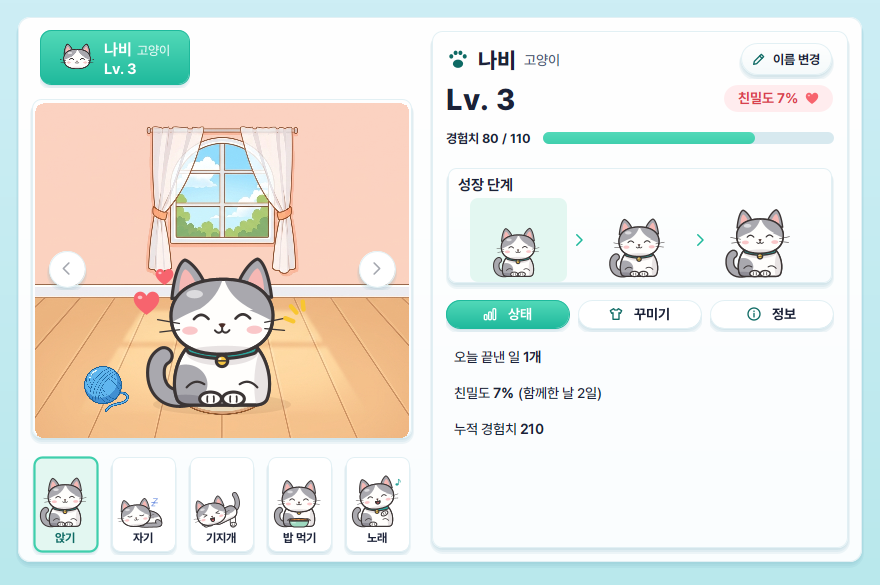
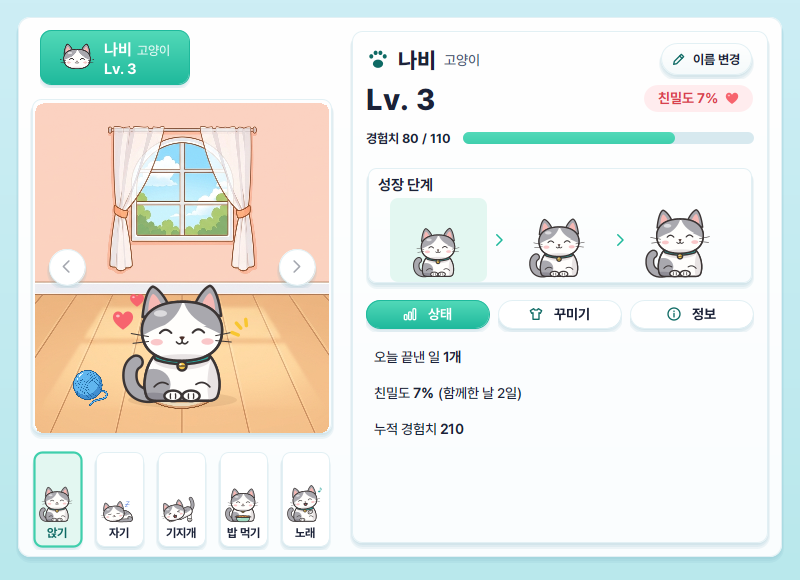
feat(pet): 캐릭터 창은 메인 창의 3분의 2, 홈 펫은 1단계도 크게 (#199)
D-93(크기): 캐릭터 창 안 크기는 메인 창 폭과 높이의 3분의 2이고 내용이 들어가는 최소 800x580보다 작아지지 않는다.
운영체제 창 틀만큼 더해 창 크기를 잡고, 최소 크기도 둔다.
D-93(홈 펫): 홈 펫 카드의 단계별 크기를 0.94배, 0.97배, 1배로 바꿔 1단계 앉은 그림도 카드 칸의 3분의 2를 넘는다(D-50의 크기는 나의 방과 캐릭터 창에 그대로).
05, 01, 디자인 시스템, README, 화면 캡처와 QA 그림 크기를 고치고 D-93 검사 둘을 더했다.

Changed region(s): [[0.0, 0.0621, 1.0, 0.9621], [0.0312, 0.031, 0.25, 0.1552]]

diff --git a/prototype/src/planningpet/pet/view/CharacterDialog.java b/prototype/src/planningpet/pet/view/CharacterDialog.java
@@ -3,6 +3,7 @@ package planningpet.pet.view;
 import planningpet.app.view.App;
 import planningpet.common.view.Theme;
 import java.awt.BorderLayout;
+import java.awt.Dimension;
 import java.awt.GradientPaint;
 import java.awt.Graphics;
 import java.awt.Graphics2D;
@@ -20,7 +21,15 @@ import javax.swing.SwingUtilities;
  * 캐릭터 화면(CharacterScreen) 하나를 담는다. 운영체제 창 틀의 닫기나 Esc로 닫고, 입혀 본 장신구가 있으면 먼저 묻는다(D-61).
  */
 public final class CharacterDialog {
+    /** 안의 내용(오른쪽 카드 420, 꾸미기 탭의 장신구 칸과 꾸미기 적용)이 들어가는 최소 크기(D-93). */
+    public static final Dimension MIN = new Dimension(800, 580);
+
     private CharacterDialog() {
+    }
+
+    /** D-93: 메인 창의 3분의 2쯤이고 MIN보다 작아지지 않는다. */
+    public static Dimension size(int ownerW, int ownerH) {
+        return new Dimension(Math.max(MIN.width, ownerW * 2 / 3), Math.max(MIN.height, ownerH * 2 / 3));
     }
 
     /** 창 안: 본문 판과 같은 그라데이션 바탕에 여백 16. 창 없이 그릴 때도 쓴다. */
@@ -47,7 +56,14 @@ public final class CharacterDialog {
         d.setContentPane(content(screen));
         int w = owner == null ? 1000 : owner.getWidth();
         int h = owner == null ? 680 : owner.getHeight();
-        d.setSize(Math.max(860, (int) (w * 0.88)), Math.max(560, (int) (h * 0.86)));
+        // 크기는 창 안(내용) 크기다. 운영체제 창 틀만큼 더한다.
+        d.pack();
+        java.awt.Insets in = d.getInsets();
+        Dimension inner = size(w, h);
+        int dw = in.left + in.right;
+        int dh = in.top + in.bottom;
+        d.setMinimumSize(new Dimension(MIN.width + dw, MIN.height + dh));
+        d.setSize(inner.width + dw, inner.height + dh);
         // D-61: 닫기와 Esc는 입혀 본 장신구가 있으면 먼저 묻는다.
         d.setDefaultCloseOperation(JDialog.DO_NOTHING_ON_CLOSE);
         Runnable close = () -> {

diff --git a/prototype/check/planningpet/check/ProtoCheck.java b/prototype/check/planningpet/check/ProtoCheck.java
@@ -432,6 +432,22 @@ public final class ProtoCheck {
             }
         }
         eq("D-84 자세 칸은 이름을 늘 적고 고른 칸을 보인다", "앉기 자기 기지개(고름) 밥 먹기 노래 ", poseCells.toString());
+        eq("D-93 캐릭터 창은 메인 창의 3분의 2쯤, 최소 800x580", "800x580 960x600", sizeText(planningpet.pet.view.CharacterDialog.size(1000, 680))
+                + " " + sizeText(planningpet.pet.view.CharacterDialog.size(1440, 900)));
+        StringBuilder fills = new StringBuilder();
+        for (String kind : new String[] {"CAT", "DOG"}) {
+            Store small = MockData.sample();
+            small.pets.clear();
+            small.pets.add(new PetState(kind, "작은 펫"));
+            small.activeKind = kind;
+            App sa = Main.create(small);
+            planningpet.home.view.PetCard card = find(sa.root, planningpet.home.view.MainScreen.class).pet;
+            for (java.awt.Dimension d : new java.awt.Dimension[] {card.getMinimumSize(), card.getPreferredSize(), new java.awt.Dimension(700, 400)}) {
+                card.setSize(d);
+                fills.append(card.petFill() > 2 / 3.0 ? "넘음 " : String.format("%.2f ", card.petFill()));
+            }
+        }
+        eq("D-93 홈 펫 카드의 1단계 펫은 카드 칸의 3분의 2 넘게", "넘음 넘음 넘음 넘음 넘음 넘음 ", fills.toString());
         App one = Main.create(MockData.sample());
         planningpet.pet.view.PetScreen oneRoom = find(one.root, planningpet.pet.view.PetScreen.class);
         oneRoom.character.opened(false);
@@ -457,6 +473,10 @@ public final class ProtoCheck {
             }
         }
         return null;
+    }
+
+    static String sizeText(java.awt.Dimension d) {
+        return d.width + "x" + d.height;
     }
 
     /** c 아래의 type 부품 모두(그린 순서). */

diff --git a/prototype/qa/planningpet/qa/Snap.java b/prototype/qa/planningpet/qa/Snap.java
@@ -36,10 +36,10 @@ public final class Snap {
             app.show(screen[0]);
             save(app.root, new Dimension(1000, 680), new File(dir, screen[1] + ".png"));
         }
-        // 캐릭터 창(D-58)은 메인 창 1000x680 위에 뜨는 크기(폭 0.88배, 높이 0.86배)의 창 안이다.
+        // 캐릭터 창(D-58)은 메인 창 1000x680 위에 뜨는 크기(D-93: 메인의 3분의 2쯤, 최소 800x580)의 창 안이다.
         PetScreen room = QaDrive.find(app.root, PetScreen.class);
         room.character.opened(false);
-        save(CharacterDialog.content(room.character), new Dimension(880, 585), new File(dir, "6-character.png"));
+        save(CharacterDialog.content(room.character), CharacterDialog.size(1000, 680), new File(dir, "6-character.png"));
         // 예시 그림과 같은 비율(16:9)로 넓게 그린 판. 강아지를 데려와 두 마리인 상태다(D-48).
         app.pet.adopt(true, "");
         app.pet.select("CAT");
@@ -57,7 +57,7 @@ public final class Snap {
             }
         }
         room.character.opened(false);
-        save(CharacterDialog.content(room.character), new Dimension(1267, 697), new File(dir, "6-character-wide.png"));
+        save(CharacterDialog.content(room.character), CharacterDialog.size(1440, 810), new File(dir, "6-character-wide.png"));
         LocalDate monday = TaskBook.mondayOf(app.store.today());
         save(TaskDialog.content(new TaskForm(null, app.store.today(), app.store.now), new JButton("취소"), new JButton("저장"), null), null, new File(dir, "3-form.png"));
         save(AutoPlaceDialog.content(app.store, monday, Planner.place(app.store, monday), new JButton("취소"),

diff --git a/prototype/src/planningpet/home/view/PetCard.java b/prototype/src/planningpet/home/view/PetCard.java
@@ -302,14 +302,25 @@ public final class PetCard extends JComponent {
         g.dispose();
     }
 
-    /** 펫: 카드 왼쪽에 발을 풀밭에 붙인다. 크기는 3단계 그림이 위쪽 여백을 빼고 꽉 차는 상자이고, 단계는 그 안의 크기로 보인다(D-50). */
+    /** 펫 상자 한 변: 3단계 그림이 위쪽 여백을 빼고 꽉 차는 크기. */
+    private int petSize(Rectangle f) {
+        return (int) Math.min(petWidth(f) * 1.7, (ground(f) - f.y - 14) / 0.97);
+    }
+
+    /** 펫 그림 높이를 카드 칸(카드 위에서 땅 선까지) 높이로 나눈 값. 1단계 앉기도 3분의 2를 넘는다(D-93). 검사용. */
+    public double petFill() {
+        Rectangle f = frame();
+        return Pet.cardDrawnHeight(store.pet(), petSize(f)) / (double) (ground(f) - f.y);
+    }
+
+    /** 펫: 카드 왼쪽에 발을 풀밭에 붙인다. 단계는 상자 안의 크기로 보이고 홈 카드 비율(0.94, 0.97, 1배)이다(D-93). */
     private void pet(Graphics2D g, Rectangle f) {
         PetState p = store.pet();
         int ground = ground(f);
         int pw = petWidth(f);
         int cx = f.x + pw / 2 + 6;
-        int size = (int) Math.min(pw * 1.7, (ground - f.y - 14) / 0.97);
-        int drawn = Pet.drawnHeight(p, size);
+        int size = petSize(f);
+        int drawn = Pet.cardDrawnHeight(p, size);
         g.setColor(new Color(0x5E, 0x8A, 0x3C, 45));
         g.fillOval(cx - size * 3 / 10, ground - size / 26, size * 3 / 5, size / 13);
         Pet.drawAt(g, p, cx, ground, size, t);

diff --git a/prototype/src/planningpet/pet/view/Pet.java b/prototype/src/planningpet/pet/view/Pet.java
@@ -17,10 +17,10 @@ public final class Pet {
         drawAt(g, p, p.pose, p.wear, x, ground, size);
     }
 
-    /** 움직이는 자리(홈 펫 카드): t초의 숨쉬기와 꼬리로 그린다(PetArt 머리 주석). */
+    /** 움직이는 자리(홈 펫 카드): t초의 숨쉬기와 꼬리로 그린다(PetArt 머리 주석). 단계별 크기는 홈 카드 비율이다(D-93). */
     public static void drawAt(Graphics2D g, PetState p, int x, int ground, int size, double t) {
         int stage = Level.stage(Level.level(p.exp));
-        double box = size * PetArt.stageScale(stage);
+        double box = size * PetArt.cardScale(stage);
         PetArt.drawAt(g, art(p.kind), pose(p.pose), new java.util.HashSet<>(p.wear.values()), t, 99, x, ground, box);
     }
 
@@ -61,6 +61,12 @@ public final class Pet {
     /** drawAt이 size 상자에 그리는 그림의 실제 높이. 머리 위 말풍선과 하트 자리에 쓴다. */
     public static int drawnHeight(PetState p, int size) {
         double box = size * PetArt.stageScale(Level.stage(Level.level(p.exp)));
+        return (int) (box * PetArt.heightRatio(art(p.kind), pose(p.pose)));
+    }
+
+    /** 홈 펫 카드(drawAt의 t 판)가 size 상자에 그리는 그림의 실제 높이(D-93). */
+    public static int cardDrawnHeight(PetState p, int size) {
+        double box = size * PetArt.cardScale(Level.stage(Level.level(p.exp)));
         return (int) (box * PetArt.heightRatio(art(p.kind), pose(p.pose)));
     }
 

diff --git a/prototype/qa/planningpet/qa/BlindShots.java b/prototype/qa/planningpet/qa/BlindShots.java
@@ -86,7 +86,7 @@ public final class BlindShots {
             shoot(new PickDialog().panel, null, "플래닝펫 시작", images, key, n++, out, "반려동물 고르기 창");
             PetScreen room = QaDrive.find(app.root, PetScreen.class);
             room.character.opened(false);
-            shoot(CharacterDialog.content(room.character), new Dimension(880, 585), "캐릭터", images, key, n++, out, "캐릭터 창");
+            shoot(CharacterDialog.content(room.character), CharacterDialog.size(1000, 680), "캐릭터", images, key, n++, out, "캐릭터 창");
             // TaskController.delete가 반복 일정에 띄우는 확인 창과 같은 글과 버튼이다.
             Task series = app.store.tasks.stream().filter(x -> x.seriesId != null).findFirst().orElseThrow();
             String[] options = {"이 일정만", "이후 반복 모두", "취소"};

diff --git a/prototype/qa/planningpet/qa/QaRules.java b/prototype/qa/planningpet/qa/QaRules.java
@@ -87,7 +87,7 @@ final class QaRules {
         PetScreen room = QaDrive.find(app.root, PetScreen.class);
         room.character.opened(false);
         JComponent character = CharacterDialog.content(room.character);
-        lay(character, new Dimension(880, 585));
+        lay(character, CharacterDialog.size(1000, 680));
         m.put("캐릭터 창", character);
         for (JComponent c : m.values()) {
             if (c.getWidth() == 0) {

diff --git a/prototype/src/planningpet/pet/view/PetArt.java b/prototype/src/planningpet/pet/view/PetArt.java
@@ -32,6 +32,11 @@ public final class PetArt {
         return stage <= 1 ? 0.72 : stage == 2 ? 0.86 : 1.0;
     }
 
+    /** 홈 펫 카드의 단계별 크기 비율(D-93). 1단계도 카드 칸의 3분의 2 넘게 그리려고 단계 사이 차를 줄였다. */
+    public static double cardScale(int stage) {
+        return stage <= 1 ? 0.94 : stage == 2 ? 0.97 : 1.0;
+    }
+
     private PetArt() {
     }
 

diff --git a/docs/design-system.md b/docs/design-system.md
@@ -182,7 +182,7 @@
 
 캐릭터 창(`CharacterScreen`을 담은 모달 `JDialog`, 2026-11-23 캐릭터 창 예시, D-58):
 
-- 창 제목은 "캐릭터"이고 운영체제 창 틀을 쓴다. 크기는 메인 창의 폭 0.88배, 높이 0.86배이고 860x560보다 작아지지 않으며, 메인 창 가운데에 뜬다. 바탕은 본문 판과 같은 `BG_TOP`에서 `BG_BOTTOM`으로 가는 그라데이션이고 안쪽 여백은 16이다.
+- 창 제목은 "캐릭터"이고 운영체제 창 틀을 쓴다. 창 안 크기는 메인 창의 폭과 높이의 3분의 2이고 800x580보다 작아지지 않으며(D-93), 메인 창 가운데에 뜬다. 바탕은 본문 판과 같은 `BG_TOP`에서 `BG_BOTTOM`으로 가는 그라데이션이고 안쪽 여백은 16이다.
 - 큰 카드(모서리 24, 안쪽 여백 14) 하나에 왼쪽 열과 오른쪽 카드(폭 420, 모서리 20)다.
 - 왼쪽 열: 위에 펫 탭(폭 200 이상, 높이 58, 얼굴, 이름 굵은 16과 옆 작은 종류 13, 둘째 줄 "Lv. 3" 굵은 15), 가운데 방 카드(모서리 18) 위의 큰 펫(칸 폭의 0.62배와 높이의 0.74배 가운데 작은 쪽)과 발밑 러그, 털실 공, 옆의 하트 둘과 강조선, 양옆 펫 화살표 원 버튼 40(펫이 하나면 비활성, D-80). 아래 자세 다섯 칸(높이 100, 모서리 16, 그림 아래 자세 이름 굵은 12, 고른 칸은 `MINT_PALE` 바탕과 `MINT` 테두리 2.2와 `ICON` 색 이름, D-84).
 - 오른쪽 카드: 발자국 24와 이름(아주 굵은 22)과 옆 작은 종류(14, `INK_SUB`), 오른쪽 "이름 변경"(굵은 13, 연필 아이콘). "Lv. 3"(아주 굵은 30)과 오른쪽 친밀도 알약(`#FFECEE` 바탕, `#D8414E` 굵은 14, 하트 16). "경험치 80 / 110"(굵은 13)과 막대(높이 12). 성장 단계 카드(모서리 16, 제목 굵은 15, 높이 84, 지금 단계 칸에 `MINT_PALE` 바탕). 상태, 꾸미기, 정보 탭(14). 꾸미기 탭은 왼쪽 칸 목록(폭 112, 굵은 13, 메뉴 모양)과 오른쪽 장신구 카드 줄(높이 116, 넷). 맨 아래 "꾸미기 적용"(주 행동, 굵은 16, 흰 발자국 20, 좌우 여백 60).
@@ -192,7 +192,7 @@
 
 - 배치: 왼쪽 열은 본문 폭의 0.47(360에서 760 사이)이고 위에 펫 카드(본문 높이의 0.42, 236에서 400 사이), 아래에 달력 카드다. 오른쪽 할 일 카드는 위아래를 다 쓴다. 사이는 `GAP`.
 - 펫 카드(`PetCard`): 카드 모서리 18, 그림자는 카드와 같다. 안은 한 장의 장면이다. 하늘 `SKY_TOP`에서 `SKY_BOTTOM`, 구름(`cloud.png`) 둘(하나는 왼쪽 위, 하나는 펫 머리 위 오른편, 오른쪽 열 글을 가리지 않는 곳), 먼 언덕 `GRASS_FAR`(알파 200에서 120), 가까운 풀밭 `GRASS`(아래로 `GRASS_FAR`를 35% 섞음), 풀잎 `GRASS_DEEP` 세 묶음. 땅 선은 카드 아래에서 높이의 1/11(최소 14).
-  - 펫: 왼쪽 칸(카드 폭의 0.40, 118에서 260)에 발을 땅 선에 붙인다. 상자 한 변은 min(칸 폭 1.7배, (땅 선에서 위 14를 뺀 높이) / 0.97)이고 모습 단계(D-50)는 그 안의 크기로 보인다. 발밑에 옅은 초록 그림자, 오른쪽 귀 옆에 `SPARK` 강조선(상자의 1/8). 창에 붙어 보일 때만 40ms 타이머로 숨쉬기와 꼬리가 돈다(`PetArt`의 t). 창 없이 그리면 t는 0이다.
+  - 펫: 왼쪽 칸(카드 폭의 0.40, 118에서 260)에 발을 땅 선에 붙인다. 상자 한 변은 min(칸 폭 1.7배, (땅 선에서 위 14를 뺀 높이) / 0.97)이고 모습 단계는 그 안의 크기(홈 카드 비율 0.94배, 0.97배, 1배, D-93)로 보인다. 1단계 앉은 그림도 카드 위에서 땅 선까지의 3분의 2를 넘는다. 발밑에 옅은 초록 그림자, 오른쪽 귀 옆에 `SPARK` 강조선(상자의 1/8). 창에 붙어 보일 때만 40ms 타이머로 숨쉬기와 꼬리가 돈다(`PetArt`의 t). 창 없이 그리면 t는 0이다.
   - 오른쪽 열(위 여백 14, 카드가 250보다 높으면 남는 높이의 1/3만큼 내림): 발자국 15와 이름(굵은 15, 길면 "…"), 옆 작은 종류(11, `INK_SUB`, D-81), 그 옆에 "Lv. 3"(아주 굵은 24). 그 아래 `MINT_SOFT` 알약 "경험치"(굵은 11, `ICON`)와 막대(높이 8, `TRACK_DEEP`), 막대 아래 오른쪽 끝에 "80 / 110"(굵은 13, 레벨 10이면 "최고 레벨"). 그 아래 흰 작은 카드(알파 215, 모서리 14, 높이 52): "오늘 끝낸 일"(굵은 12, `INK_SUB`), 오른쪽 발자국과 "1 / 4"(아주 굵은 16), 아래 칸 막대(높이 8). 그 아래 말풍선.
   - 말풍선: 오른쪽 열 폭, 흰 바탕, `CARD_EDGE`, 모서리 16, 그림자, 왼쪽 위에 펫을 가리키는 꼬리, 앞에 하트 14, 굵은 13. 오른쪽 열 폭에서 줄을 바꾸고 4줄(또는 카드에 남은 높이)을 넘으면 끝을 "…"로 줄이고 말풍선 위 툴팁에 전체 글을 보인다. 글이 없으면 그리지 않는다.
   - 누름: 손 모양 커서, 마우스를 올리면 테두리 `MINT_LINE`, 누르는 동안 `MINT` 2, 키보드 초점은 안쪽 민트 고리이고 Enter와 Space로도 연다. 툴팁 "캐릭터 창 열기". 누르면 나의 방과 같은 `characterOpener`로 캐릭터 창을 상태 탭으로 연다(D-58, D-93).

diff --git a/docs/05-ui-design.md b/docs/05-ui-design.md
@@ -38,6 +38,7 @@
 - **이어진 유스케이스**: UC-01, UC-02, UC-03(버튼), UC-04, UC-05와 UC-06(목록에서), UC-07, UC-08, UC-09, UC-22(펫 카드)
 - **배치**: 왼쪽 위 펫 카드, 왼쪽 아래 달력, 오른쪽 위아래 전체 할 일 목록이다(D-59). 2026-11-24 팀이 준 홈 예시의 다듬은 모양을 따르되, 예시의 방 카드와 "캐릭터 꾸미기, 성장하기" 버튼은 넣지 않아 펫 요소는 펫 카드 하나다.
 - **펫 카드**: 고른 펫(D-48)의 그림, 지은 이름과 그 옆 작은 종류("고양이"), "Lv. 3"(D-81), 경험치 막대와 "경험치 80 / 110"(06의 10번), "오늘 끝낸 일 1 / 4"와 막대(06의 13번), 그 아래 펫 말풍선이다. 누르면 캐릭터 창이 상태 탭으로 뜬다(D-58, D-80, D-93).
+  - 펫은 1단계도 카드 칸(카드 위에서 땅 선까지) 높이의 3분의 2 넘게 그린다(앉은 그림의 높이로 잰다). 홈 카드의 단계별 크기는 0.94배, 0.97배, 1배다(D-93. D-50의 0.72배, 0.86배, 1배를 홈 카드에서 바꾼다).
   - 막대는 오늘(앱 날짜) 목록에 보이는 할 일(기간 할 일 포함, D-65)과 고정 일정 가운데 끝낸 비율이다. 고른 날짜와 관계없다(D-22, D-35).
   - 말풍선은 펫 옆에 뜨고 꼬리가 펫을 가리키며 카드 폭에서 줄을 바꾼다(D-59). 그날 처음 창을 열면 브리핑하고(UC-01), 할 일을 끝내면 칭찬하고, 하루 보상 상한에 닿거나 레벨이 오르면 그 사실을 말한다(UC-07). 언제 어떤 문장을 말하는지는 06의 15번과 16번(대사 표)을 따른다. 다음 말이 올 때까지 남아 있다.
 - **달력**: 보이는 달의 날짜 칸이고 한 주는 일요일부터 토요일까지다. 제목 줄 오른쪽에 이전 달, 다음 달 꺾쇠와 "오늘" 버튼이 있다(D-60). 오늘(앱 날짜, D-15)과 고른 날짜를 다르게 표시한다. 날짜 아래에는 그날 첫 할 일의 제목을 칸에 들어가는 만큼, 다섯 자까지 보인다(D-33, D-59, 06의 26번). 끝내지 않은 기간 할 일은 마감 날 칸에 센다(D-65). 끝내지 않은 할 일이 있는 날은 `TASK_TEXT` 색, 모두 끝낸 날은 흐린 색이고, 할 일이 없는 날(고정 일정만 있는 날 포함)은 아무것도 없다. 색은 [디자인 시스템](design-system.md) 7절을 따른다.
@@ -170,6 +171,7 @@
 
 - **이어진 유스케이스**: UC-21(펫 탭, 화살표), UC-22, UC-23
 - 고른 펫을 돌보고 꾸미는 창이다(D-47, D-58). 메뉴가 아니라 홈 펫 카드, 나의 방 펫 패널의 장신구 칸, "{이름} 꾸미기"로 연다(D-80). 나의 방의 펫 칩은 창을 열지 않는다. 메인 창 위에 뜨는 `JDialog`(제목 "캐릭터", 모달)이고 운영체제 창 틀의 닫기나 Esc로 닫는다. 배치는 2026-11-23 캐릭터 창 예시를 따른다.
+- 창 안 크기는 메인 창의 폭과 높이의 3분의 2쯤이라 뒤의 메인 창이 보인다. 안의 내용(오른쪽 카드, 꾸미기 탭의 장신구 칸과 꾸미기 적용)이 들어가는 최소 크기 800x580보다 작아지지 않는다(D-93). 메인 창이 최소 크기(1000x680)면 800x580이다.
 - 창은 늘 상태 탭으로 열린다. 지난번에 본 탭과 관계없고 처음 열 때도 같다. 장신구 칸이나 "{이름} 꾸미기"로 열면 꾸미기 탭으로 열린다(D-83, D-93). 열 때마다 입혀 보는 장신구는 고른 펫의 저장된 장신구에서 시작한다.
 - **왼쪽**: 위에 펫 탭(얼굴, 이름과 그 옆 작은 종류, 둘째 줄 "Lv. {레벨}", 펫마다 하나, D-81), 가운데 방 그림 위의 큰 펫, 아래 자세 다섯 칸이다.
   - 큰 펫은 고른 자세로, 꾸미기 탭에서 입혀 보는 중인 장신구를 입고 그린다(D-51). 옆에 하트와 강조선, 발밑에 러그와 털실 공이 있다. 양옆 화살표는 고른 펫을 앞이나 다음 펫으로 바꾼다(D-80). 자세는 아래 자세 칸에서 고른다. 펫이 하나면 두 화살표가 흐리다.

diff --git a/prototype/README.md b/prototype/README.md
@@ -57,7 +57,7 @@ Windows는 `prototype\run.bat`이다.
 | 일정 입력 창 | ![일정 입력](screenshots/3-form.png) |
 | 자동 배치 결과 창 | ![자동 배치](screenshots/4-autoplace.png) |
 | 나의 방(상점 칸 포함) | ![나의 방](screenshots/5-room.png) |
-| 캐릭터 창(홈 펫 카드나 나의 방의 펫 칩으로 연다) | ![캐릭터 창](screenshots/6-character.png) |
+| 캐릭터 창(홈 펫 카드, 나의 방의 장신구 칸과 "{이름} 꾸미기"로 연다) | ![캐릭터 창](screenshots/6-character.png) |
 | 통계 | ![통계](screenshots/10-stats.png) |
 | 반려동물 고르기 창 | ![고르기](screenshots/7-pick.png) |
 | 설정 | ![설정](screenshots/8-settings.png) |
